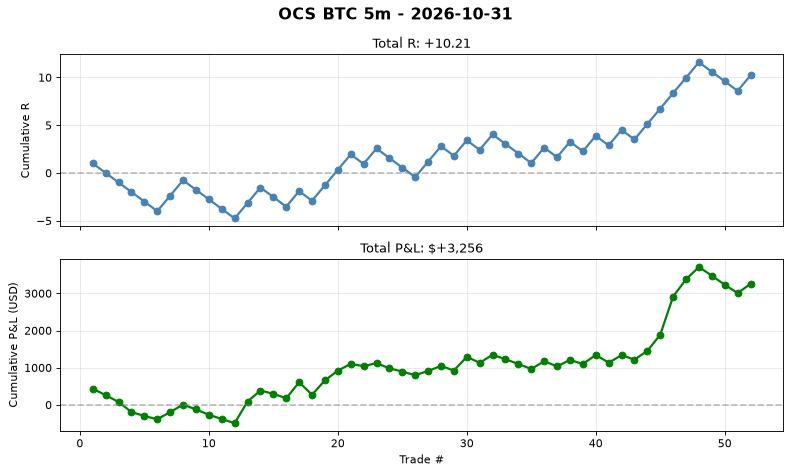
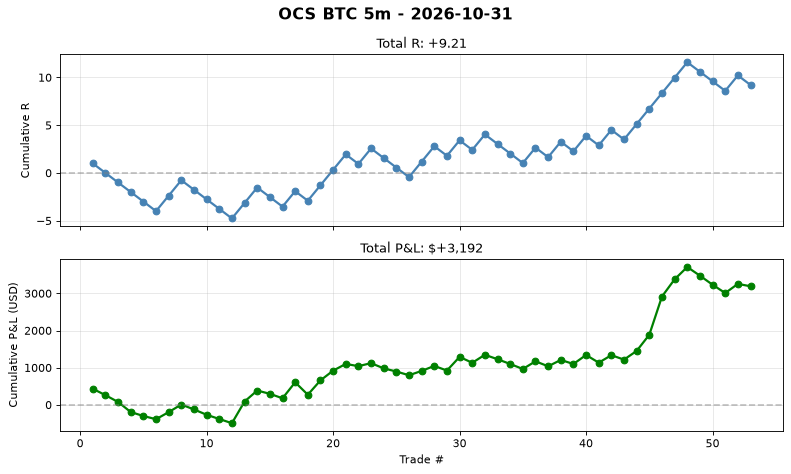
auto(ocs-btc): signal log 2026-10-31T13:52 trades=53

diff --git a/automation/reports/ocs_btc_5m/daily/2026-10-31.md b/automation/reports/ocs_btc_5m/daily/2026-10-31.md
@@ -1,5 +1,37 @@
 # OCS BTC 5m - 2026-10-31
 
-**No trades today.**
+## Summary
+- **Trades**: 1 (0W / 1L)
+- **Win Rate**: 0.0%
+- **Total R**: -1.00R
+- **Total P&L**: $-64
+- **Avg R**: -1.00R
+- **Profit Factor**: 1.32
 
-Cumulative stats: 52 trades | WR 46.2% | avg R 0.196
+## Exit Breakdown
+- T1 (+1.0R): 1
+- T2 (+1.618R): 23
+- T3 (+2.618R): 0
+- T4 (+3.618R): 0
+- T5 (+5.0R): 0
+- SL (-1.0R): 29
+
+## Best Trade
+- **SHORT** at 77,284 -> SL 77,348
+- R = -1.00, P&L = $-64
+- Held for 7 bars
+
+## Worst Trade
+- **SHORT** at 77,284 -> SL 77,348
+- R = -1.00, P&L = $-64
+- Held for 7 bars
+
+## Cumulative Stats (Lifetime)
+- Total trades: 53
+- WR: 45.3%
+- Avg R: 0.174
+- Total R: +9.21R
+- Profit Factor: 1.32
+
+## Chart
+See `daily/2026-10-31.png` for cumulative P&L curve.
